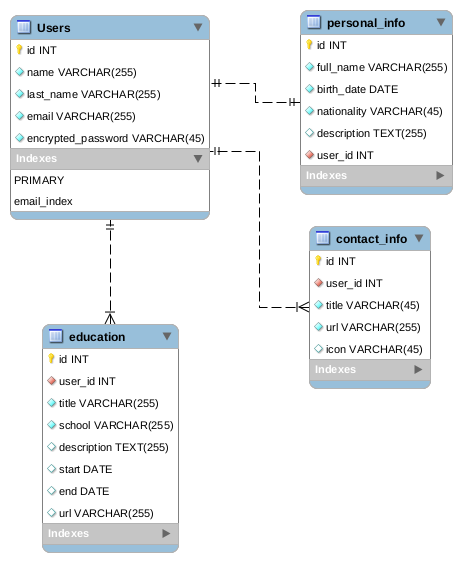
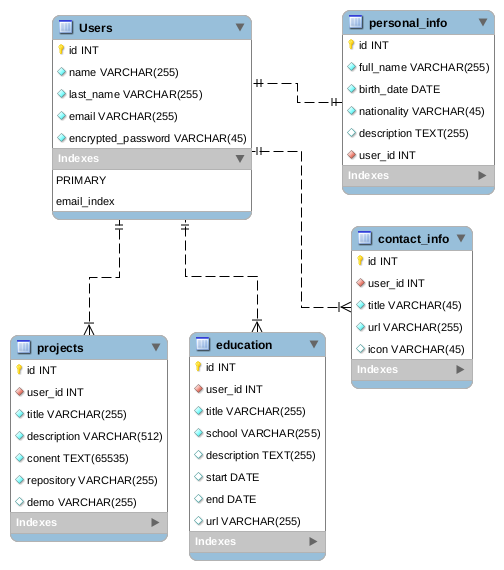
partial form for new projects publications, database configuration error corrected

diff --git a/app/controllers/projects_controller.rb b/app/controllers/projects_controller.rb
@@ -3,4 +3,8 @@ class ProjectsController < ApplicationController
   before_action :authenticate_user!
 
   def index; end
+
+  def new
+    @new_project = Project.new
+  end
 end
